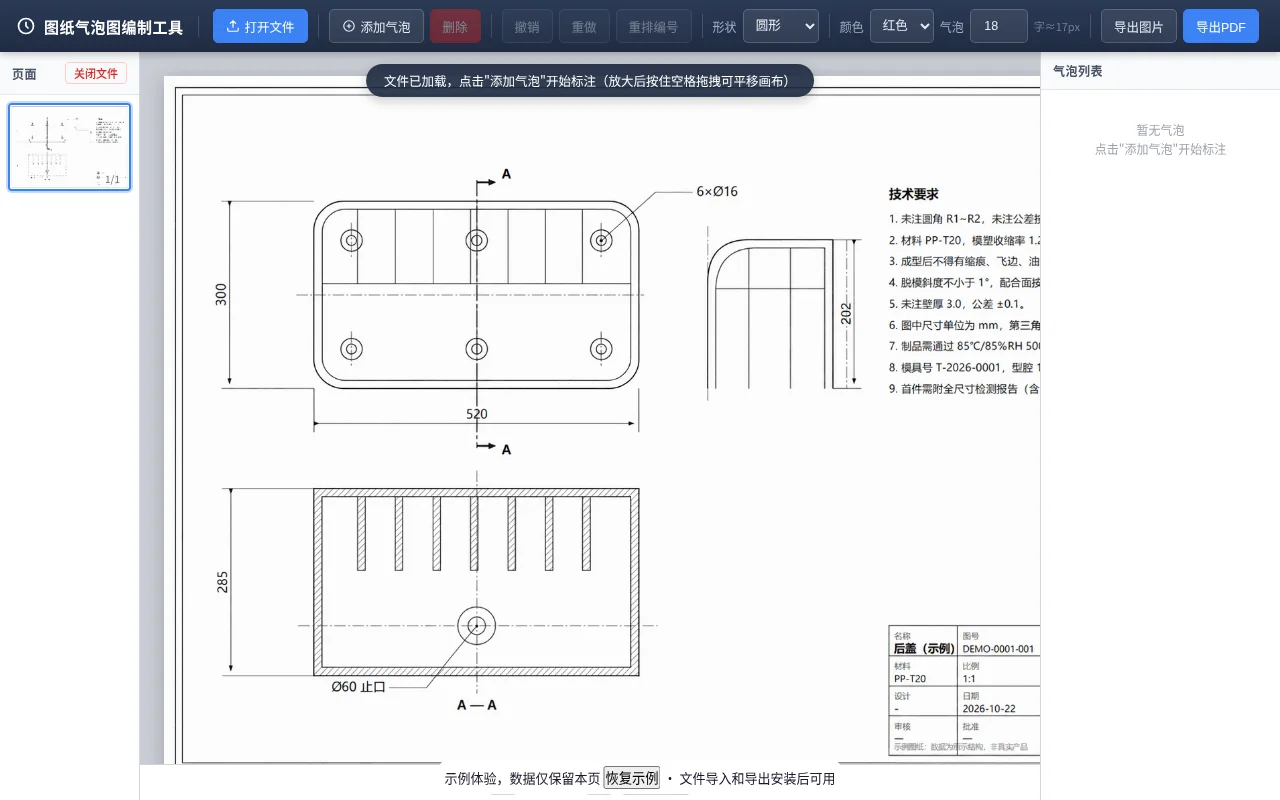
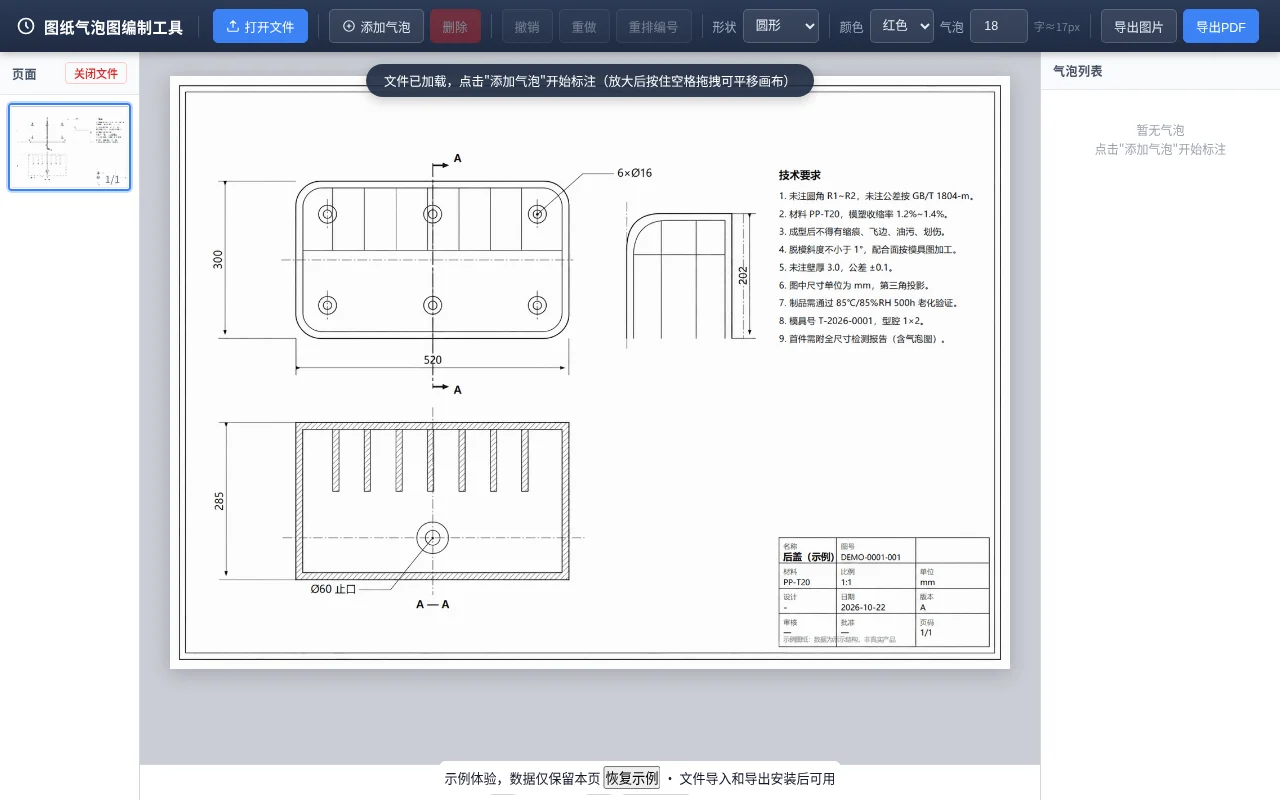
Fit preview within marketplace panel

Changed region(s): [[0.125, 0.0938, 0.8125, 0.9688]]

diff --git a/7a4ada4ea599ce1df01bd43c/showcase/preview.html b/7a4ada4ea599ce1df01bd43c/showcase/preview.html
@@ -257,7 +257,7 @@
   }
   .ocr-result-bar button.primary { background: #3b82f6; border-color: #3b82f6; }
 
-@media(max-width:700px){body{display:flex;flex-direction:column}.toolbar{height:auto;flex:0 0 auto;max-height:30vh;overflow-y:auto;flex-wrap:wrap;padding:6px;gap:4px}.toolbar .brand{width:100%;border:0}.main{flex:1;min-height:0;height:auto}.page-panel{width:58px;min-width:58px}.bubble-panel{width:86px;min-width:86px}.panel-title{padding:6px 3px}.page-list,.bubble-list{padding:3px}.bubble-info .bi-note{display:none}.bubble-item{gap:2px;padding:4px 1px}.canvas-area{min-width:0}.canvas-scroll{padding:8px}#bubbleCanvas{touch-action:none}.empty-hint{padding:6px 2px}}
+@media(max-width:1000px){body{display:flex;flex-direction:column}.toolbar{height:auto;flex:0 0 auto;max-height:30vh;overflow-y:auto;flex-wrap:wrap;padding:6px;gap:4px}.toolbar .brand{width:100%;border:0}.main{flex:1;min-height:0;height:auto}.page-panel{width:58px;min-width:58px}.bubble-panel{width:86px;min-width:86px}.panel-title{padding:6px 3px}.page-list,.bubble-list{padding:3px}.bubble-info .bi-note{display:none}.bubble-item{gap:2px;padding:4px 1px}.canvas-area{min-width:0}.canvas-scroll{padding:8px}#bubbleCanvas{touch-action:none}.empty-hint{padding:6px 2px}}
 </style></head><body>
 
 <!-- ===== 顶部工具栏 ===== -->
@@ -2183,6 +2183,15 @@
     }
   }, { passive: false });
 
+  // 市场详情会在隐藏状态初始化 iframe，待容器尺寸就绪后重新适配图纸。
+  let previewWidth = 0, previewHeight = 0;
+  new ResizeObserver(() => {
+    const w = canvasScroll.clientWidth, h = canvasScroll.clientHeight;
+    if (w > 60 && h > 60 && (w !== previewWidth || h !== previewHeight)) {
+      previewWidth = w; previewHeight = h;
+      if (state.pages.length) { fitToWindow(); renderCurrentPage(); }
+    }
+  }).observe(canvasScroll);
   // 恢复预览的工具设置与未完成的操作，再载入示例图纸。
   document.addEventListener('reset-preview-state', () => {
     exitAddMode();
